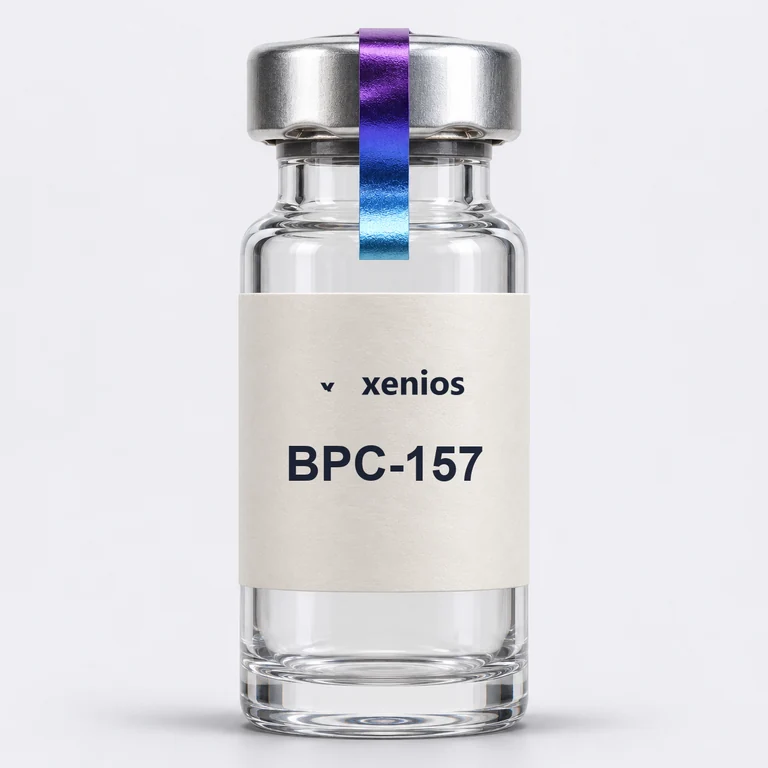
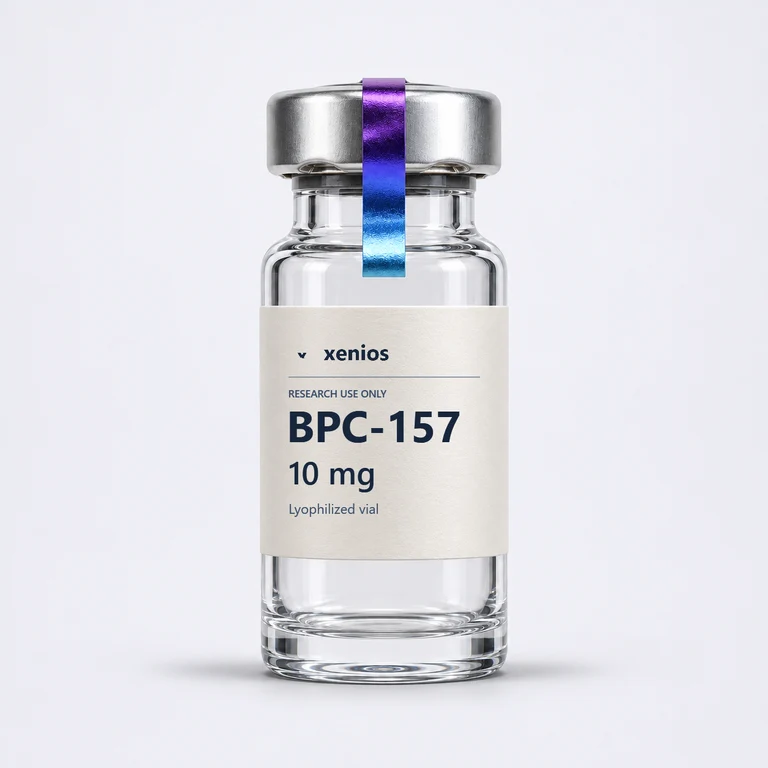
Show exact BPC-157 packaging in image-first catalog cards

Changed region(s): [[0.1875, 0.0312, 0.7812, 1.0], [0.375, 0.4375, 0.625, 0.6875]]

diff --git a/client/src/research/master-offerings/product-media.test.tsx b/client/src/research/master-offerings/product-media.test.tsx
@@ -37,7 +37,8 @@ describe("product visuals on catalog routes", () => {
       const image = expectAsset(host, "vial");
       expect(image.getAttribute("alt")).toBe("Fixture product illustration, vial");
       expect(image.getAttribute("loading")).toBe("lazy");
-      expect(host.textContent).toContain("Representative illustration");
+      expect(host.querySelector('[data-testid="mo-card"]')?.firstElementChild).toBe(image.closest("figure"));
+      expect(host.querySelector("figcaption")).toBeNull();
     } finally {
       unmount();
     }
@@ -50,12 +51,14 @@ describe("product visuals on catalog routes", () => {
     try {
       const image = mediaImage(host);
       expect(image.getAttribute("src")).toBe("/research/product-media/bpc-157-packshot.webp");
-      expect(image.getAttribute("width")).toBe("128");
-      expect(image.getAttribute("height")).toBe("128");
-      expect(host.textContent).toContain("Representative illustration · Conceptual packaging");
+      expect(image.getAttribute("alt")).toBe("BPC-157 10 mg lyophilized vial packaging design");
+      expect(image.getAttribute("width")).toBe("768");
+      expect(image.getAttribute("height")).toBe("768");
+      expect(image.classList.contains("object-contain")).toBe(true);
+      expect(host.querySelector("figcaption")).toBeNull();
       act(() => { image.dispatchEvent(new Event("error")); });
       const fallback = expectAsset(host, "vial");
-      expect(host.textContent).not.toContain("Conceptual packaging");
+      expect(host.querySelector("figcaption")).toBeNull();
       act(() => { fallback.dispatchEvent(new Event("error")); });
       expectAsset(host, "unknown");
     } finally {
@@ -79,8 +82,24 @@ describe("product visuals on catalog routes", () => {
       <ul><MasterOfferingCard product={card({ variants: [vial, capsule] })} /></ul>,
     );
     try {
-      expectAsset(host, "unknown");
-      expect(host.textContent).toContain("format unconfirmed");
+      const image = expectAsset(host, "unknown");
+      expect(image.getAttribute("alt")).toContain("format unconfirmed");
+      expect(host.querySelector("figcaption")).toBeNull();
+    } finally {
+      unmount();
+    }
+  });
+
+  it("places the packaging status on the exact variant detail only", () => {
+    const { host, unmount } = render(
+      <MasterOfferingDetail product={detail({ displayName: "BPC-157", variants: [bpc157, vial] })} />,
+    );
+    try {
+      expect(mediaImage(host).getAttribute("src")).toBe("/research/product-media/bpc-157-packshot.webp");
+      expect(host.querySelector("figcaption")?.textContent).toContain("Current packaging may differ.");
+      click(host.querySelectorAll('input[type="radio"]')[1]);
+      expectAsset(host, "vial");
+      expect(host.querySelector("figcaption")).toBeNull();
     } finally {
       unmount();
     }

diff --git a/client/src/research/product-media/ProductMedia.tsx b/client/src/research/product-media/ProductMedia.tsx
@@ -40,25 +40,28 @@ export function ProductMedia({
 
   return (
     <figure className={"m-0 grid w-full min-w-0 gap-1" + (detail ? " max-w-[26rem]" : "")}>
-      <div className={"grid aspect-[4/3] min-w-0 place-items-center overflow-hidden rounded-xl" + (showPackshot ? " bg-[#f1f1f4]" : " bg-[#141329] p-3")}>
+      <div className={"relative grid aspect-[4/3] min-w-0 place-items-center overflow-hidden rounded-xl" + (showPackshot ? " bg-[#f1f1f4]" : " bg-[#141329] p-3")}>
         <img
           key={showPackshot ? bpc157Packshot : undefined}
           src={showPackshot ? bpc157Packshot : "/research/product-media/" + format + ".svg"}
-          alt={productName + " illustration, " + formatLabels[format]}
-          width={128}
-          height={128}
+          alt={showPackshot ? productName + " 10 mg lyophilized vial packaging design" : productName + " illustration, " + formatLabels[format]}
+          width={showPackshot ? 768 : 128}
+          height={showPackshot ? 768 : 128}
           loading={detail ? "eager" : "lazy"}
           decoding="async"
-          className="block h-full max-h-52 w-full max-w-52 object-contain"
+          className={showPackshot
+            ? "absolute inset-0 block h-full w-full object-contain"
+            : "block h-full max-h-52 w-full max-w-52 object-contain"}
           data-testid="product-media-image"
           onError={showPackshot ? () => setFailedPackshot(true)
             : format === "unknown" ? undefined : () => setFailedFormat(format)}
         />
       </div>
-      <figcaption className="body-s min-w-0 break-words text-ink-mute">
-        {format === "unknown" ? "Illustration · format unconfirmed" : "Representative illustration"}
-        {showPackshot && " · Conceptual packaging"}
-      </figcaption>
+      {detail && showPackshot && (
+        <figcaption className="body-s min-w-0 break-words text-ink-mute">
+          Packaging design shown. Current packaging may differ.
+        </figcaption>
+      )}
     </figure>
   );
 }

diff --git a/client/src/research/assisted-order/RequestIntentForm.tsx b/client/src/research/assisted-order/RequestIntentForm.tsx
@@ -319,17 +319,12 @@ function RequestIntentFormSession({
       <div className="xenios-order-catalog-layout"><div><div className="xenios-order-cards">{catalog?.items.map((item) => {
         const key = catalogItemKey(item), selection = selected.get(key);
         const sourceVariantId = item.sourceSelection?.variantId;
-        const identity = <><h2>{item.productName}</h2>
-          <p>{item.specification || "Form not stated"}</p></>;
         return <article className="xenios-order-card" key={key}>
-          {ownerKey === "early-access-session" ? (
-            <div className="flex flex-wrap items-start gap-3">
-              <div className="min-w-0 grow basis-32 break-words">{identity}</div>
-              <div className="w-20 max-w-full shrink-0">
-                <ProductMedia productName={item.productName} variantIds={sourceVariantId ? [sourceVariantId] : []} />
-              </div>
-            </div>
-          ) : identity}
+          {ownerKey === "early-access-session" && (
+            <ProductMedia productName={item.productName} variantIds={sourceVariantId ? [sourceVariantId] : []} />
+          )}
+          <h2>{item.productName}</h2>
+          <p>{item.specification || "Form not stated"}</p>
           <p>{item.clinicalReviewRequired ? "Clinical review required. Not a prescription." : item.researchUseOnly ? "Research Use Only. Nonclinical use only." : "Internal review required."}</p>
           {item.sourceRefusal && <p>Current restriction: {restrictionCopy(item.sourceRefusal)} Adding a request does not remove this restriction.</p>}
           <p>{item.clinicalReviewRequired ? "Final price follows applicable review." : money(item.unitPriceCents) + " (catalog display, not a final quote)"}</p>

diff --git a/client/src/research/assisted-order/RequestIntentForm.test.tsx b/client/src/research/assisted-order/RequestIntentForm.test.tsx
@@ -185,8 +185,11 @@ describe("mixed private request customer form source", () => {
     const mappedImage = mapped.querySelector("img");
     expect(mappedImage?.getAttribute("src")).toBe("/research/product-media/capsule.svg");
     expect(mappedImage?.getAttribute("alt")).toBe("Synthetic mapped illustration, capsule");
-    expect(missingSource.querySelector("img")?.getAttribute("src")).toBe("/research/product-media/unknown.svg");
-    expect(missingSource.textContent).toContain("format unconfirmed");
+    expect(mapped.firstElementChild).toBe(mappedImage?.closest("figure"));
+    const fallbackImage = missingSource.querySelector("img");
+    expect(fallbackImage?.getAttribute("src")).toBe("/research/product-media/unknown.svg");
+    expect(fallbackImage?.getAttribute("alt")).toBe("Synthetic missing-source illustration, format unconfirmed");
+    expect(missingSource.querySelector("figcaption")).toBeNull();
     expect(mapped.textContent).toContain("$12.50");
     await click("Add Synthetic mapped to request");
     expect(mapped.querySelector('input[type="number"]')).not.toBeNull();

diff --git a/client/src/research/master-offerings/MasterOfferingCard.tsx b/client/src/research/master-offerings/MasterOfferingCard.tsx
@@ -196,6 +196,8 @@ export function MasterOfferingCard({
         data-display-state={product.displayState}
         data-access-paths={accessPathsOfCard(product).join(" ")}
       >
+        <ProductMedia productName={product.displayName} variantIds={product.variants.map((variant) => variant.id)} />
+
         <div className="flex min-w-0 flex-wrap items-start justify-between gap-3">
           <div className="min-w-0">
             <p className="mono-label text-ink-mute min-w-0 break-words">
@@ -221,8 +223,6 @@ export function MasterOfferingCard({
             tone={STATE_TONE[product.displayState]}
           />
         </div>
-
-        <ProductMedia productName={product.displayName} variantIds={product.variants.map((variant) => variant.id)} />
 
         <p className="body-s text-ink-2 min-w-0 break-words">
           {product.stateExplanation}
